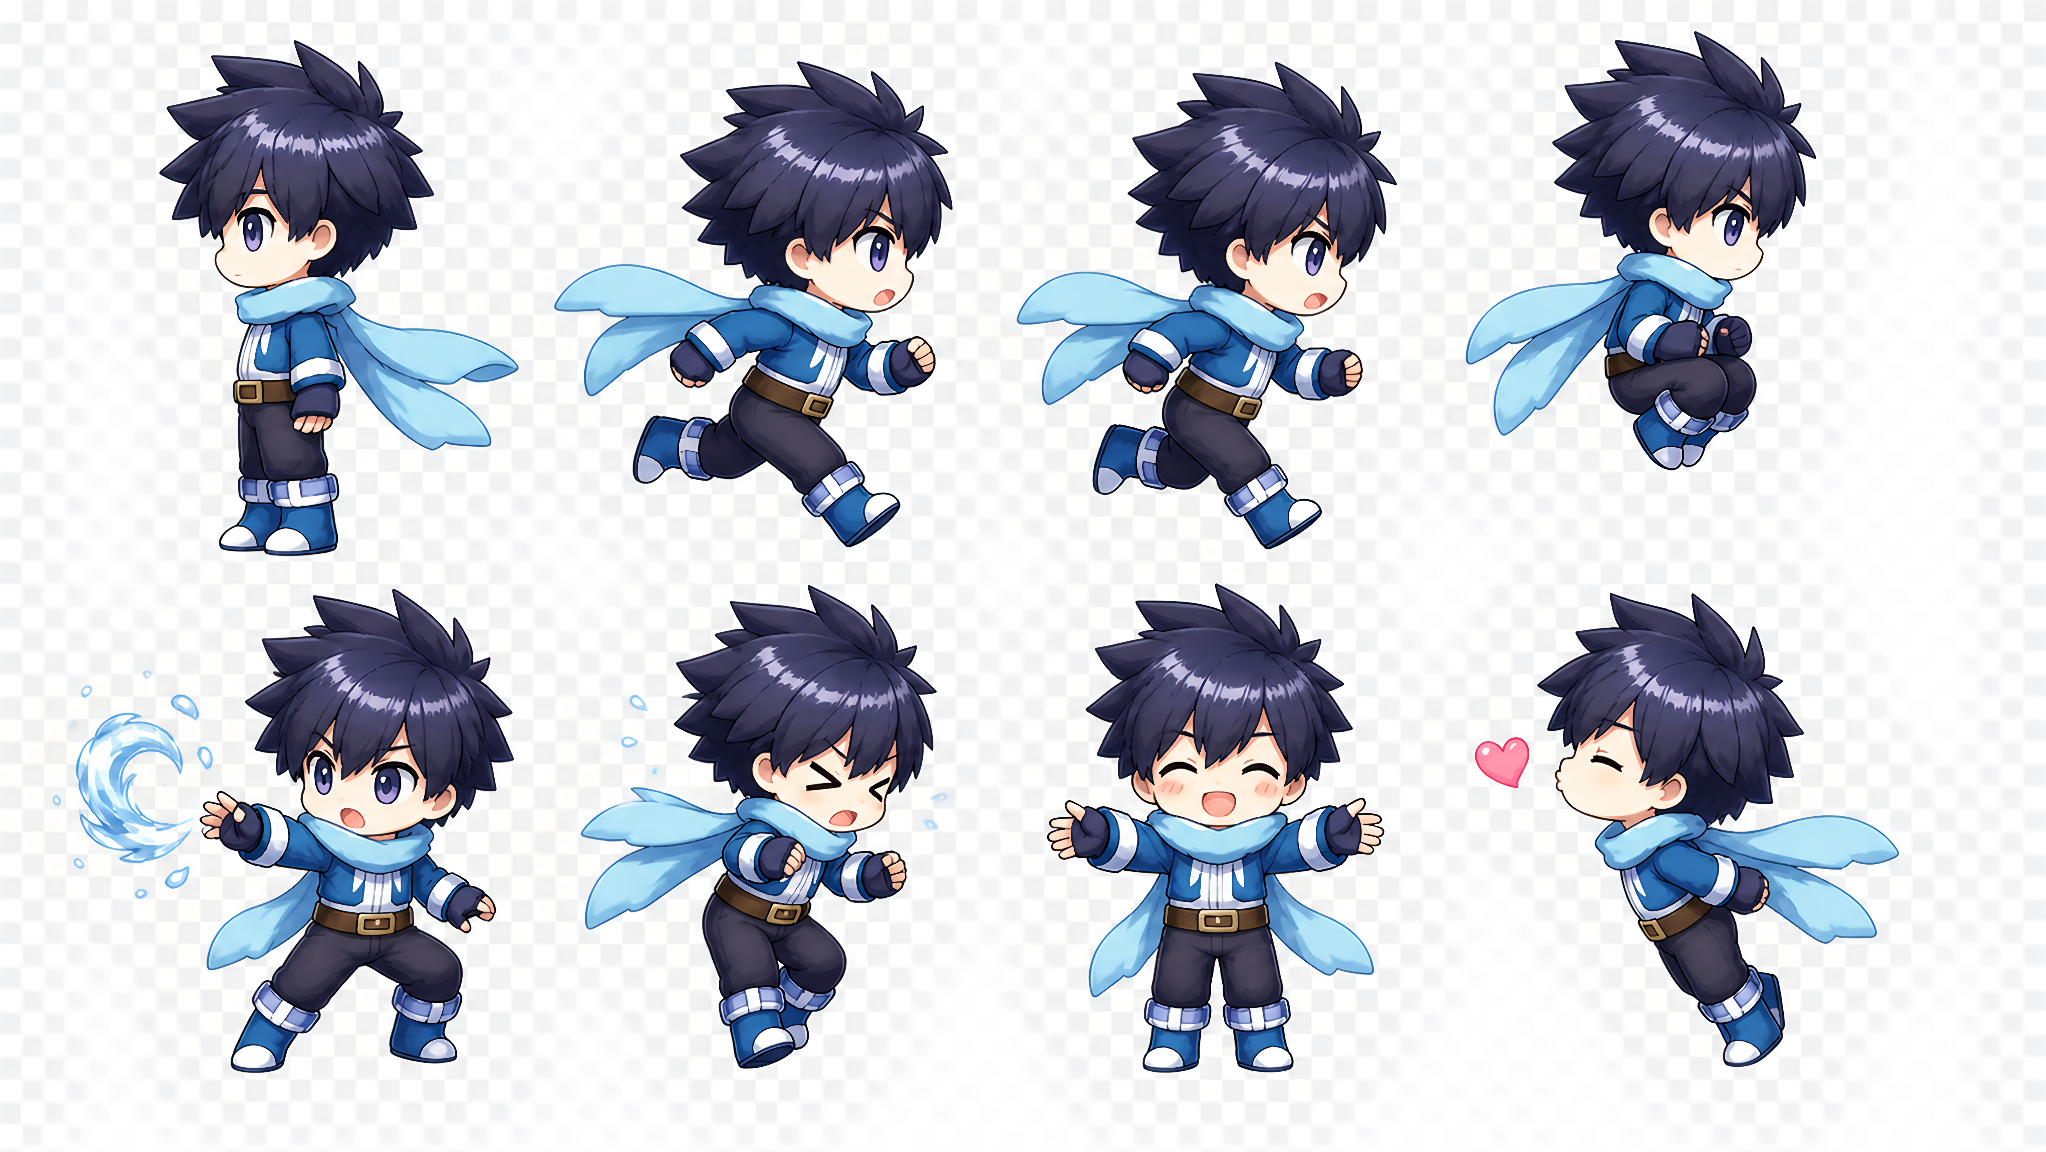
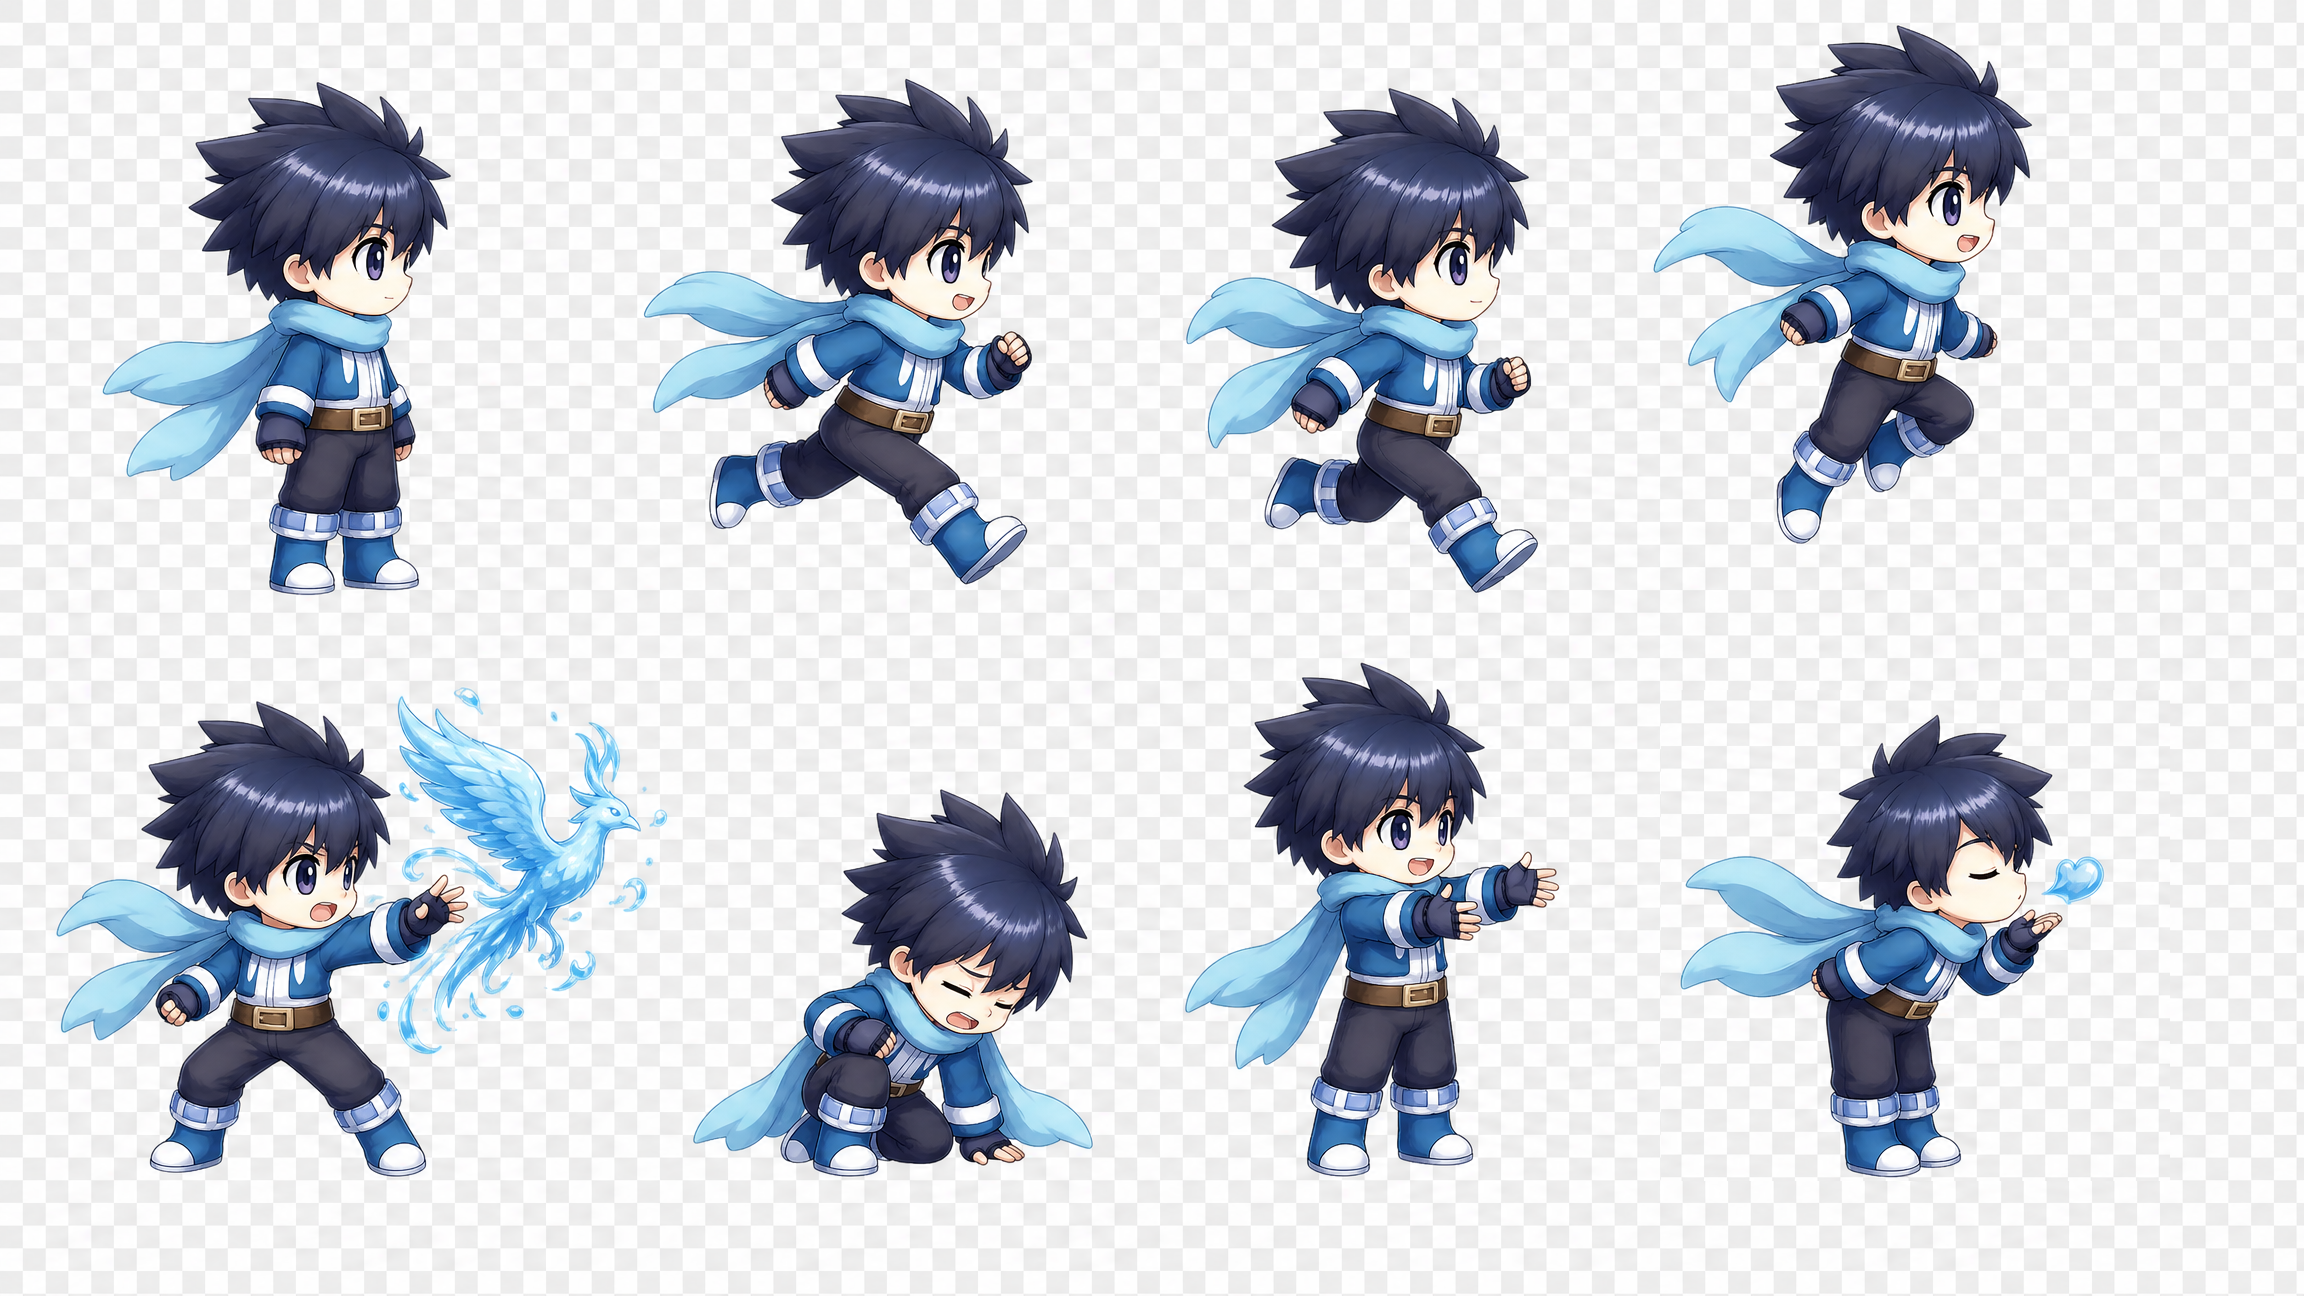
upgrade_run_actions

diff --git a/js/assets.js b/js/assets.js
@@ -18,11 +18,17 @@ const ASSETS = {
     float_falls: { trim: 1 }, float_blossom: { trim: 1 }, float_shadow: { trim: 1 },
     float_ember: { trim: 1 }, float_star: { trim: 1 },
     prop_mushroom: { trim: 1 }, prop_gate: { trim: 1 }, prop_shrine: { trim: 1 },
-    // heroes & supporters (pose sheets)
+    // heroes & supporters — legacy 8-pose sheets (fallback)
     joku_sheet: { cols: 4, rows: 2, trim: 1 },
     jolie_sheet: { cols: 4, rows: 2, trim: 1 },
     lulu_sheet: { cols: 4, rows: 1, trim: 1 },
     biscuit_sheet: { cols: 4, rows: 1, trim: 1 },
+    // heroes & supporters — animation strips (preferred when present)
+    joku_run: { cols: 6, rows: 1, trim: 1 }, jolie_run: { cols: 6, rows: 1, trim: 1 },
+    joku_idle: { cols: 4, rows: 1, trim: 1 }, jolie_idle: { cols: 4, rows: 1, trim: 1 },
+    joku_actions: { cols: 8, rows: 1, trim: 1 }, jolie_actions: { cols: 8, rows: 1, trim: 1 },
+    lulu_run: { cols: 6, rows: 1, trim: 1 }, biscuit_run: { cols: 6, rows: 1, trim: 1 },
+    lulu_actions: { cols: 4, rows: 1, trim: 1 }, biscuit_actions: { cols: 4, rows: 1, trim: 1 },
     // devils
     enemies_sheet: { cols: 4, rows: 1, trim: 1 },
     enemies_elite_sheet: { cols: 4, rows: 1, trim: 1 },
@@ -221,22 +227,103 @@ const ASSETS = {
     return true;
   },
 
-  /* ---------------- heroes ---------------- */
-  // sheet frames: 0 idle, 1 runA, 2 runB, 3 jump, 4 cast, 5 hurt, 6 hug, 7 kiss
-  drawChar(ctx, p, t, who) {
-    const sheet = who + '_sheet';
-    if (!this.has(sheet)) return false;
-    const atk = p.atkT != null && p.atkT < .28;
-    let idx = 0;
-    if (p.pose === 'kiss') idx = 7;
-    else if (p.pose === 'hug') idx = 6;
-    else if (p.down || p.hurtT > 0) idx = 5;
-    else if (atk) idx = 4;
-    else if (!p.onGround) idx = 3;
-    else if (Math.abs(p.vx) > 30) idx = (Math.sin(p.animT * 13) > 0) ? 1 : 2;
+  frameCount(name) {
+    const d = this.data[name];
+    return d && d.ok ? d.frames.length : 0;
+  },
 
-    const run = Math.abs(p.vx) > 30 && p.onGround;
-    const bounce = run ? Math.abs(Math.sin(p.animT * 13)) * 2.2 : Math.sin(t * 2.3) * 1.1;
+  loopFrame(name, phase) {
+    const n = this.frameCount(name);
+    return n ? (((phase | 0) % n) + n) % n : 0;
+  },
+
+  heroActionIndex(p) {
+    const w = p && p.weapon && typeof Weapons !== 'undefined' ? Weapons[p.weapon] : null;
+    const shape = (w && w.shape) || '';
+    const special = (w && w.special) || '';
+    if (special === 'heartHeal' || special === 'loveBeacon' || special === 'dreamSong' || special === 'pandaGift') return 6;
+    if (special === 'sunGuard' || special === 'auroraShield' || special === 'riverWall') return 4;
+    if (shape === 'axe' || shape === 'hammer') return 1;
+    if (shape === 'sword' || shape === 'katana' || shape === 'dagger' || shape === 'claw') return 0;
+    if (shape === 'spear' || shape === 'staff' || shape === 'scythe') return 2;
+    if (shape === 'bow') return 3;
+    if (shape === 'shield') return 4;
+    if (shape === 'wand' || shape === 'orb' || shape === 'bell' || shape === 'lantern' || shape === 'lyre' || shape === 'fan') return 5;
+    return 5;
+  },
+
+  heroWeaponGrip(p, src, idx) {
+    const w = p && p.weapon && typeof Weapons !== 'undefined' ? Weapons[p.weapon] : null;
+    const shape = (w && w.shape) || '';
+    const base = { x: 17, y: -35, rot: -.22, size: 22, front: true };
+    if (src && src.indexOf('_run') > 0) {
+      const a = idx * U.TAU / Math.max(1, this.frameCount(src));
+      return { x: 17 + Math.cos(a) * 3, y: -36 + Math.sin(a) * 2, rot: -.18 + Math.sin(a) * .08, size: 21 };
+    }
+    if (src && src.indexOf('_actions') > 0) {
+      const byFrame = [
+        { x: 22, y: -38, rot: -.62, size: 25 },
+        { x: 15, y: -43, rot: -.92, size: 28 },
+        { x: 24, y: -42, rot: -.38, size: 27 },
+        { x: 27, y: -38, rot: -.04, size: 26 },
+        { x: 19, y: -39, rot: -.08, size: 27 },
+        { x: 24, y: -42, rot: -.18, size: 24 },
+        { x: 18, y: -39, rot: -.24, size: 23 },
+        { x: 16, y: -35, rot: -.36, size: 23 }
+      ];
+      return byFrame[Math.min(idx, byFrame.length - 1)] || base;
+    }
+    if (shape === 'bow') return { x: 22, y: -36, rot: -.04, size: 23 };
+    if (shape === 'shield') return { x: 18, y: -37, rot: -.02, size: 24 };
+    if (shape === 'axe' || shape === 'hammer') return { x: 17, y: -39, rot: -.65, size: 26 };
+    if (shape === 'spear' || shape === 'staff' || shape === 'scythe') return { x: 19, y: -39, rot: -.38, size: 25 };
+    return base;
+  },
+
+  drawHeroWeapon(ctx, p, t, src, idx, attacking) {
+    if (!p.weapon || typeof Weapons === 'undefined' || !Weapons[p.weapon]) return;
+    const def = Weapons[p.weapon];
+    const g = this.heroWeaponGrip(p, src, idx);
+    const flash = U.clamp(p.weaponPose || 0, 0, 1);
+    ctx.save();
+    ctx.scale(p.dir || 1, 1);
+    ctx.translate(g.x, g.y);
+    ctx.rotate((g.rot || 0) + (attacking ? -.18 : 0) + Math.sin(t * 3.2) * .025);
+    if (flash > 0) {
+      ctx.globalCompositeOperation = 'lighter';
+      if (typeof Art !== 'undefined' && Art.glow) Art.glow(ctx, 0, 0, 28 + flash * 28, def.color, .25 + flash * .35);
+      ctx.globalCompositeOperation = 'source-over';
+      ctx.scale(1 + flash * .16, 1 + flash * .16);
+    }
+    if (!this.drawWeaponGlyph(ctx, p.weapon, 0, 0, g.size || 22, t) && typeof Art !== 'undefined' && Art.drawWeaponGlyph) {
+      Art.drawWeaponGlyph(ctx, p.weapon, 0, 0, g.size || 22, t);
+    }
+    ctx.restore();
+  },
+
+  /* ---------------- heroes ---------------- */
+  // base sheet frames: 0 idle, 1 runA, 2 runB, 3 jump, 4 cast, 5 hurt, 6 hug, 7 kiss
+  // action strip frames: 0 slash, 1 heavy, 2 spear/staff, 3 bow, 4 shield, 5 magic, 6 love/support, 7 revive/protect
+  drawChar(ctx, p, t, who) {
+    const sheet = who + '_sheet', runSheet = who + '_run', idleSheet = who + '_idle', actionSheet = who + '_actions';
+    if (!this.has(sheet) && !this.has(runSheet) && !this.has(actionSheet)) return false;
+    const atk = p.atkT != null && p.atkT < .28;
+    const actionHot = (atk || (p.weaponPose || 0) > .03 || ((p.cheerT || 0) > .18 && p.weapon)) && this.has(actionSheet);
+    const running = Math.abs(p.vx) > 30 && p.onGround;
+    let src = sheet;
+    let idx = 0;
+    if (p.pose === 'kiss' && this.has(sheet)) idx = 7;
+    else if (p.pose === 'hug' && this.has(sheet)) idx = 6;
+    else if ((p.down || p.hurtT > 0) && this.has(sheet)) idx = 5;
+    else if (actionHot) { src = actionSheet; idx = this.heroActionIndex(p); }
+    else if (!p.onGround && this.has(sheet)) idx = 3;
+    else if (running && this.has(runSheet)) { src = runSheet; idx = this.loopFrame(runSheet, p.animT * 12); }
+    else if (running && this.has(sheet)) idx = (Math.sin(p.animT * 13) > 0) ? 1 : 2;
+    else if (!running && this.has(idleSheet)) { src = idleSheet; idx = this.loopFrame(idleSheet, t * 2); }
+    else if (!this.has(src)) { src = this.has(sheet) ? sheet : (this.has(runSheet) ? runSheet : actionSheet); idx = 0; }
+
+    const run = running && src === runSheet;
+    const bounce = run ? Math.abs(Math.sin(p.animT * 12)) * .7 : (running ? Math.abs(Math.sin(p.animT * 13)) * 1.4 : Math.sin(t * 2.3) * 1.1);
     const H = 74;
 
     ctx.save();
@@ -278,18 +365,12 @@ const ASSETS = {
 
     // invulnerability flicker
     const flick = (p.invuln > .1 && !p.down && Math.sin(t * 22) > 0) ? .55 : 1;
-    this.draw(ctx, sheet, idx, 0, -bounce * .45, {
+    this.draw(ctx, src, idx, 0, -bounce * .45, {
       h: H, flip: p.dir < 0, sq: p.squash || 0, alpha: flick,
       filter: p.hurtT > .3 ? 'brightness(1.5) saturate(1.3)' : 'none'
     });
 
-    // held weapon (drawWeaponGlyph is image-backed too)
-    if (p.weapon && typeof Art !== 'undefined' && Art.drawHeldWeapon) {
-      ctx.save();
-      ctx.scale(p.dir, 1);
-      Art.drawHeldWeapon(ctx, p, t, 17, -34 - bounce * .4, atk);
-      ctx.restore();
-    }
+    this.drawHeroWeapon(ctx, p, t, src, idx, actionHot || atk);
     // Joku dash crescent
     if (p.dashT > 0) {
       this.draw(ctx, 'fx_projectiles', 2, p.dir * 26, -30, { h: 62, anchor: 'center', add: 1, alpha: .9, flip: p.dir < 0 });
@@ -305,10 +386,10 @@ const ASSETS = {
   /* ---------------- supporters ---------------- */
   // lulu: 0 stand, 1 run, 2 bite, 3 howl | biscuit: 0 stand, 1 waddle, 2 toss, 3 cheer
   drawPet(ctx, pet, t, name) {
-    const sheet = name + '_sheet';
-    if (!this.has(sheet)) return false;
+    const sheet = name + '_sheet', runSheet = name + '_run', actionSheet = name + '_actions';
+    if (!this.has(sheet) && !this.has(runSheet) && !this.has(actionSheet)) return false;
     const run = Math.abs(pet.vx) > 25;
-    let idx = run ? 1 : 0;
+    let src = sheet, idx = run ? 1 : 0;
     if (name === 'lulu') {
       if (pet.mode === 'dash') idx = 2;
       else if (pet.owner && pet.owner.down) idx = 3;
@@ -316,10 +397,14 @@ const ASSETS = {
       if (pet.healFx) idx = 2;
       else if (pet.owner && pet.owner.cheerT > 0) idx = 3;
     }
-    const bob = run ? Math.abs(Math.sin(pet.animT * 15)) * 2.4 : Math.sin(t * 3) * 1;
-    this.draw(ctx, sheet, idx, pet.x, pet.y - bob, {
+    const action = idx > 1;
+    if (action && this.has(actionSheet)) { src = actionSheet; idx = Math.min(idx - 2, this.frameCount(actionSheet) - 1); }
+    else if (run && this.has(runSheet)) { src = runSheet; idx = this.loopFrame(runSheet, pet.animT * 14); }
+    else if (!this.has(src)) { src = this.has(sheet) ? sheet : (this.has(runSheet) ? runSheet : actionSheet); idx = 0; }
+    const bob = run && src === runSheet ? Math.abs(Math.sin(pet.animT * 14)) * .8 : (run ? Math.abs(Math.sin(pet.animT * 15)) * 1.6 : Math.sin(t * 3) * 1);
+    this.draw(ctx, src, idx, pet.x, pet.y - bob, {
       h: name === 'lulu' ? 40 : 46, flip: pet.dir < 0,
-      rot: run ? Math.sin(pet.animT * 15) * .06 : 0
+      rot: run ? Math.sin(pet.animT * 14) * .035 : 0
     });
     return true;
   },
